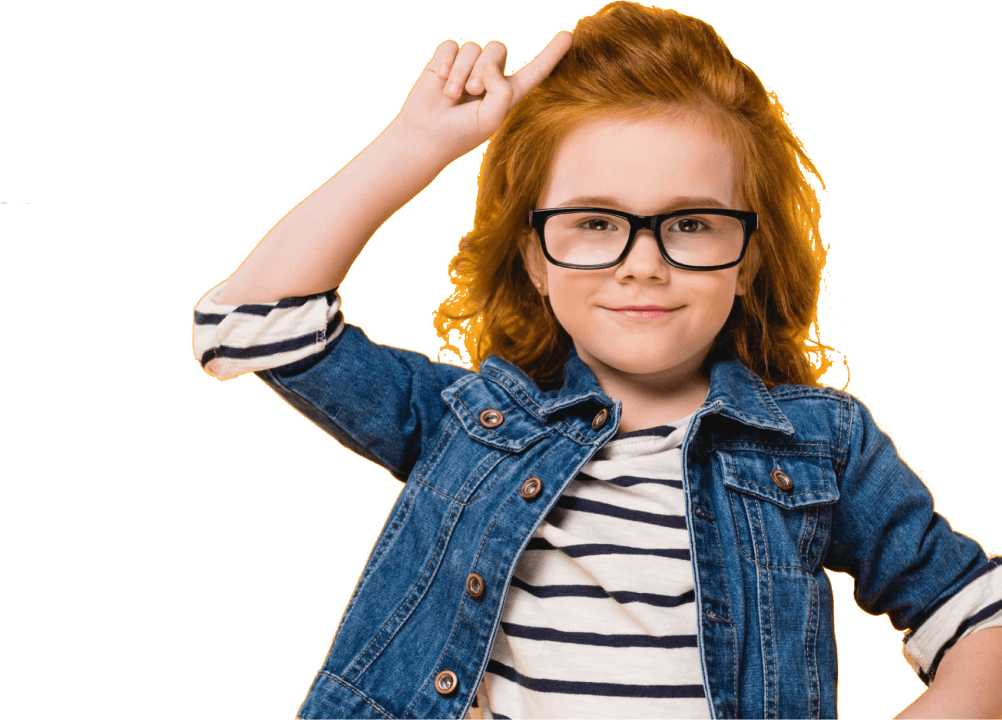
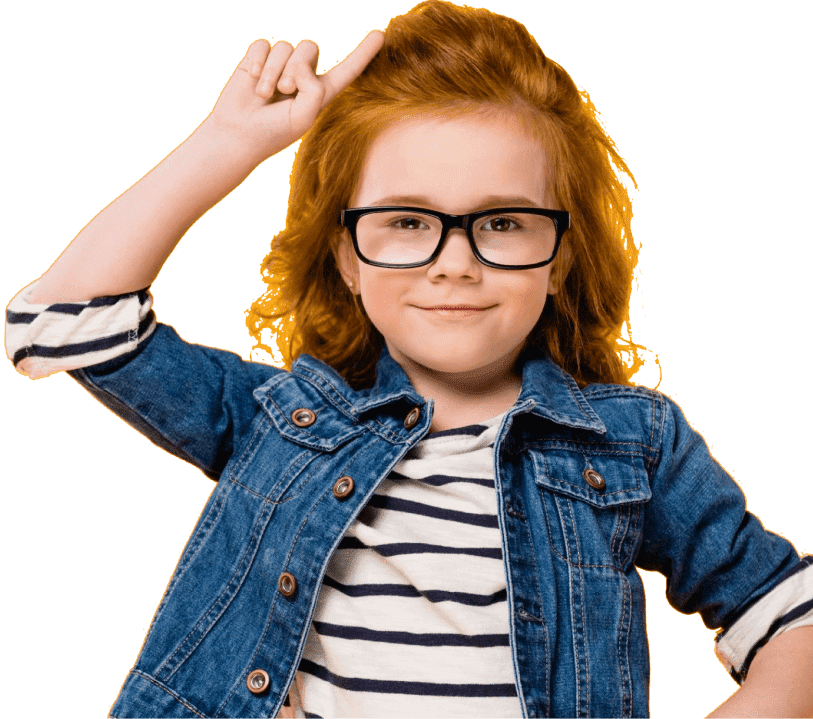
webp

diff --git a/src/less/blocks/_header.less b/src/less/blocks/_header.less
@@ -24,12 +24,12 @@
 	right: 0;
 	bottom: 0;
 	z-index: 5;
-	width: 1000px;
+	width: 790px;
 	pointer-events: none;
 
 	@media(max-width:1439px) {
-		max-width: 900px;
-		width: 65%;
+
+		width: 54%;
 	}
 }
 
@@ -278,7 +278,7 @@
 .btn-bars {
 	width: 60px;
 	height: 60px;
-	
+
 }
 
 // header title
